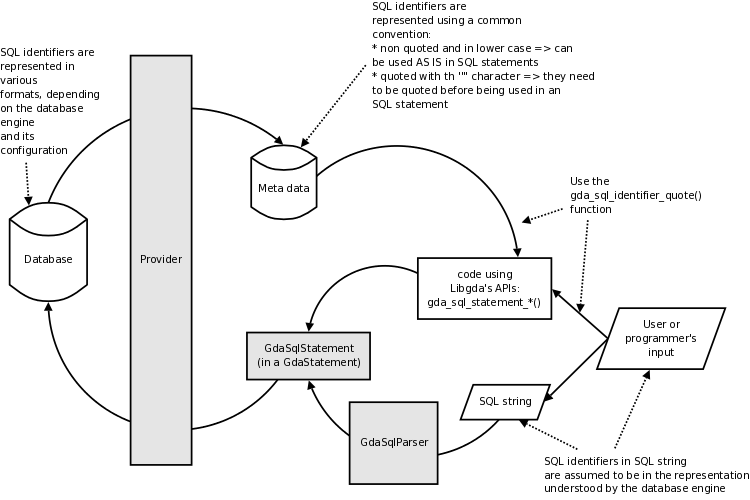
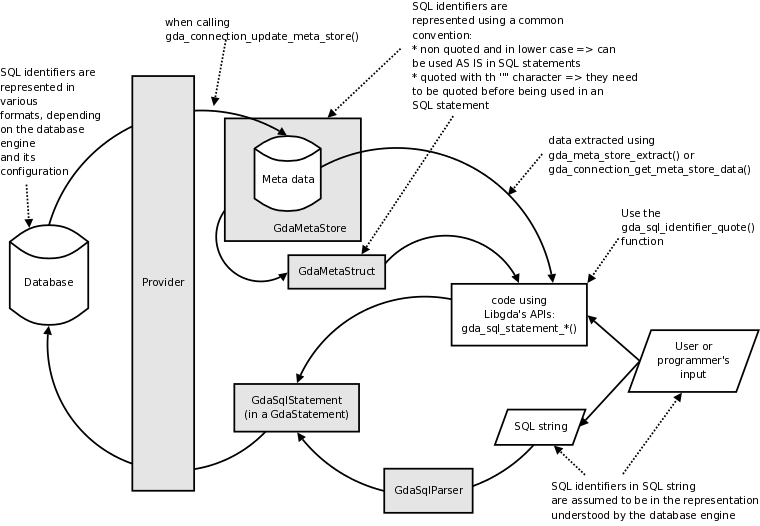
Documentation improvements regarding SQL identifiers

diff --git a/libgda/gda-meta-struct.c b/libgda/gda-meta-struct.c
@@ -433,11 +433,14 @@ prepare_sql_identifier_for_compare (gchar *str)
  * If @catalog is %NULL and @schema is not %NULL, then the database object will be the one which 
  * can be accessed by its @schema.@name name.
  *
- * Important note: @catalog, @schema and @name must respect the following convention:
+ * Important note: @catalog, @schema and @name will be used using the following convention:
  * <itemizedlist>
  *   <listitem><para>be surrounded by double quotes for a case sensitive search</para></listitem>
- *   <listitem><para>otherwise they will be converted to lower case for search</para></listitem>
+ *   <listitem><para>otherwise for case insensitive search</para></listitem>
  * </itemizedlist>
+ *
+ * For more information, see the <link linkend="information_schema:sql_identifiers">
+ * meta data section about SQL identifiers</link>.
  *
  * Returns: the #GdaMetaDbObject corresponding to the database object if no error occurred, or %NULL
  */
@@ -1090,6 +1093,8 @@ array_type_to_sql (GdaMetaStore *store, const GValue *specific_name)
  * If @catalog is %NULL, then any catalog will be used, and
  * if @schema is %NULL then any schema will be used (if @schema is %NULL then catalog must also be %NULL).
  *
+ * Please refer to gda_meta_struct_complement() form more information.
+ *
  * Returns: TRUE if no error occurred
  */
 gboolean
@@ -1288,6 +1293,8 @@ real_gda_meta_struct_complement_all (GdaMetaStruct *mstruct, gboolean default_on
  * database object which are useable using only their short name (that is which do not need to be prefixed by 
  * the schema in which they are to be used).
  *
+ * Please refer to gda_meta_struct_complement() form more information.
+ *
  * Returns: TRUE if no error occurred
  */
 gboolean
@@ -1303,6 +1310,8 @@ gda_meta_struct_complement_default (GdaMetaStruct *mstruct, GError **error)
  *
  * This method is similar to gda_meta_struct_complement() and gda_meta_struct_complement_default()
  * but creates #GdaMetaDbObject for all the database object.
+ * 
+ * Please refer to gda_meta_struct_complement() form more information.
  *
  * Returns: TRUE if no error occurred
  */
@@ -1320,6 +1329,8 @@ gda_meta_struct_complement_all (GdaMetaStruct *mstruct, GError **error)
  *
  * This method is similar to gda_meta_struct_complement() but creates #GdaMetaDbObject for all the dependencies
  * of @dbo.
+ *
+ * Please refer to gda_meta_struct_complement() form more information.
  *
  * Returns: TRUE if no error occurred
  */

diff --git a/libgda/gda-connection.c b/libgda/gda-connection.c
@@ -3035,6 +3035,12 @@ suggest_update_cb_downstream (GdaMetaStore *store, GdaMetaContext *suggest, Down
  *                   about views may be updated</para></listitem>
  * </itemizedlist>
  *
+ * When @context is not %NULL, and contains specified SQL identifiers (for example the "table_name" of the "_tables"
+ * table), then each SQL identifier has to match the convention the #GdaMetaStore has adopted regarding
+ * case sensitivity. see the <link linkend="information_schema:sql_identifiers">
+ * meta data section about SQL identifiers</link> for more information, and the documentation about the
+ * gda_sql_identifier_quote() function which will be most usefull.
+ *
  * Note however that usually <emphasis>more</emphasis> information will be updated than strictly requested by
  * the @context argument.
  *
@@ -3414,6 +3420,11 @@ prepare_meta_statements_hash (void)
  *
  * For more information about the returned data model's attributes, or about the @meta_type and ... filter arguments,
  * see <link linkend="GdaConnectionMetaTypeHead">this description</link>.
+ *
+ * Also, when using filters involving data which are SQL identifiers, make sure each SQL identifier
+ * is represented using the #GdaMetaStore convention; see the <link linkend="information_schema:sql_identifiers">
+ * meta data section about SQL identifiers</link> for more information, and the documentation about the
+ * gda_sql_identifier_quote() function which will be most usefull.
  * 
  * Returns: a #GdaDataModel containing the data required. The caller is responsible
  * for freeing the returned model using g_object_unref().

diff --git a/libgda/gda-util.c b/libgda/gda-util.c
@@ -1592,8 +1592,8 @@ static gboolean _sql_identifier_needs_quotes (const gchar *str);
  * <itemizedlist>
  *   <listitem>
  *     <para>it is correctly formatted
- *           to be used with @cnc (if @cnc is %NULL, then the standard SQL quoting rules will be applied) if
- *           @for_meta_store is %FALSE;
+ *           to be used with @cnc (if @cnc is %NULL, then some default SQL quoting rules will be applied,
+ *           similar to PostgreSQL's way) if @for_meta_store is %FALSE;
  *     </para>
  *   </listitem>
  *   <listitem>

diff --git a/libgda/gda-meta-store.c b/libgda/gda-meta-store.c
@@ -2043,6 +2043,10 @@ gda_meta_store_get_internal_connection (GdaMetaStore *store) {
  *
  * Extracts some data stored in @store using a custom SELECT query.
  *
+ * For more information about
+ * SQL identifiers are represented in @store, see the
+ * <link linkend="information_schema:sql_identifiers">meta data section about SQL identifiers</link>.
+ *
  * Returns: a new #GdaDataModel, or %NULL if an error occurred
  */
 GdaDataModel *
